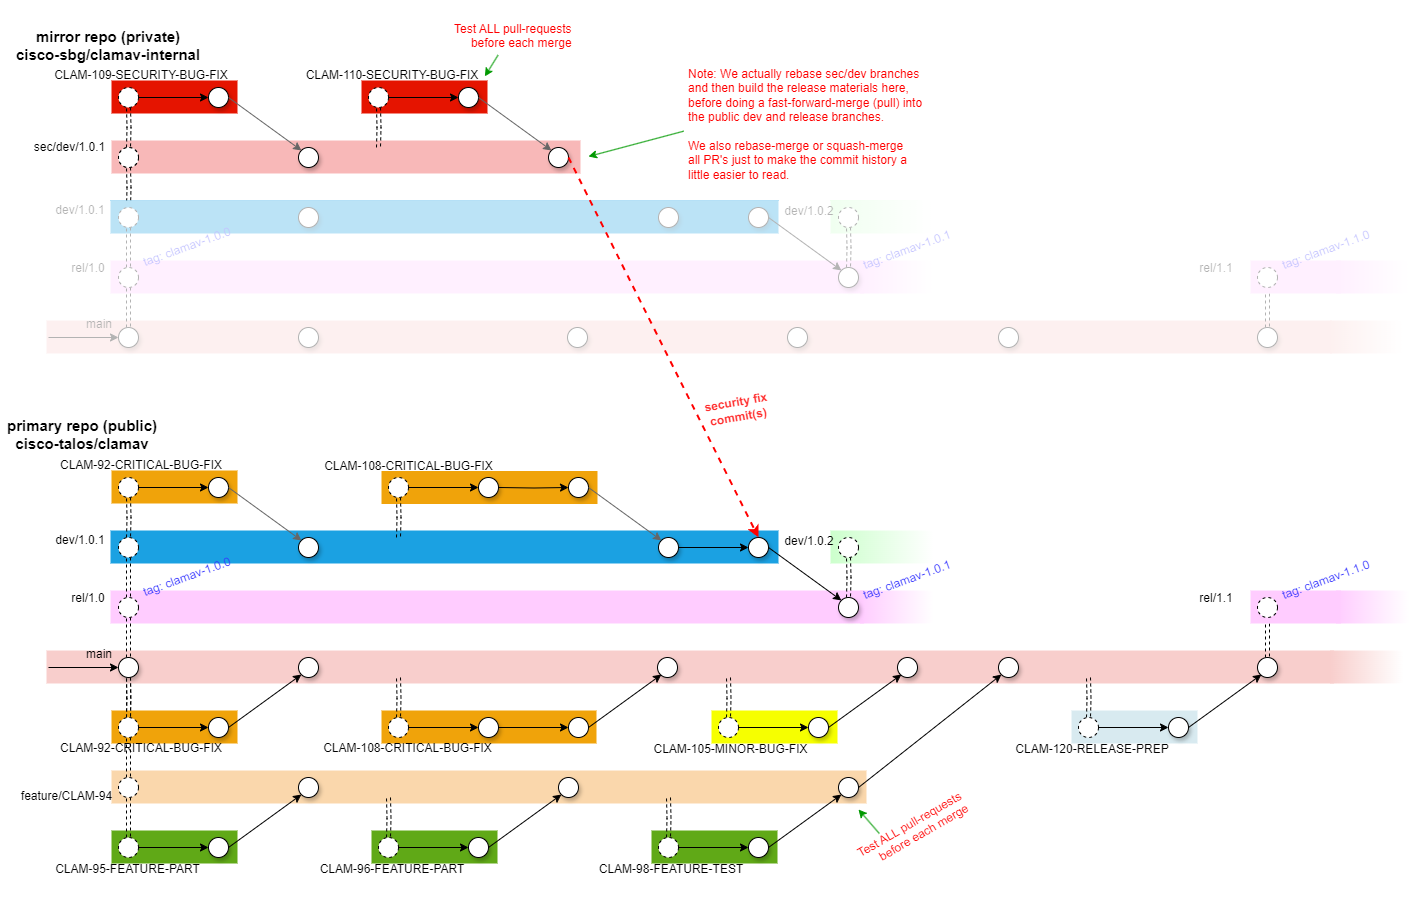
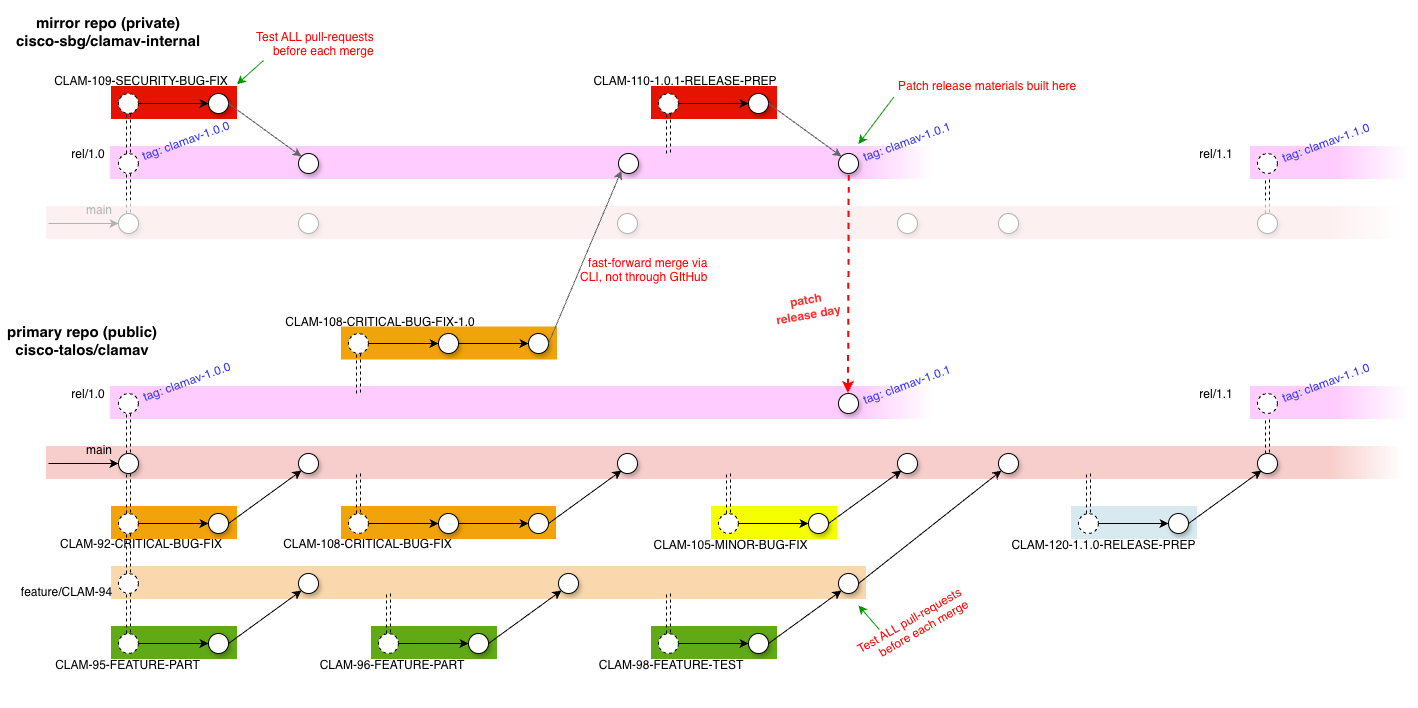
Update clamav git workflow to document new procedures, removing the dev & sec/dev branches

diff --git a/src/manual/Development/clamav-git-work-flow.md b/src/manual/Development/clamav-git-work-flow.md
@@ -14,19 +14,7 @@ Feature release branches. These always contain the latest stable patch versions 
 
 When development towards the next feature release is complete, a new `rel/X.Y` branch is created from `main` and a release tag is created.
 
-When a new patch version is needed, a `dev/X.Y.Z` branch is created from the `rel/X.Y` branch.  When development of that patch version is complete, the `dev/X.Y.Z` branch is merged back into the `rel/X.Y` branch, and a release tag is created.
-
-#### `dev/1.0.1`, `dev/1.0.2`, etc.:
-
-A development branch used to test hotfixes prior to a patch release.
-
-#### `sec/dev/1.0.1`, etc.:
-
-A private development branch used to test security-related hotfixes prior to a patch release. This branch will be rebased like any feature branch as needed up until the release.
-
-The ClamAV team maintains an internal mirror of the `clamav` repository in order to facilitate private branches, which are not a normal feature of the Git version control system.
-
-On release day, the private `sec/dev/1.0.1` branch would be pulled into the public `dev/1.0.1` branch and then into the `rel/1.0` branch where it would be tagged as "`clamav-1.0.1`".
+The ClamAV team develops security fixes in an internal mirror of the `clamav` repository. Work for the next patch release takes place on an internal `rel/X.Y` branch. When the release is ready, the team publishes those commits to the corresponding public branch and creates a release tag. For example, ClamAV 1.0.1 would be published from the internal `rel/1.0` branch to the public `rel/1.0` branch and tagged `clamav-1.0.1`.
 
 #### `feature/description`:
 
